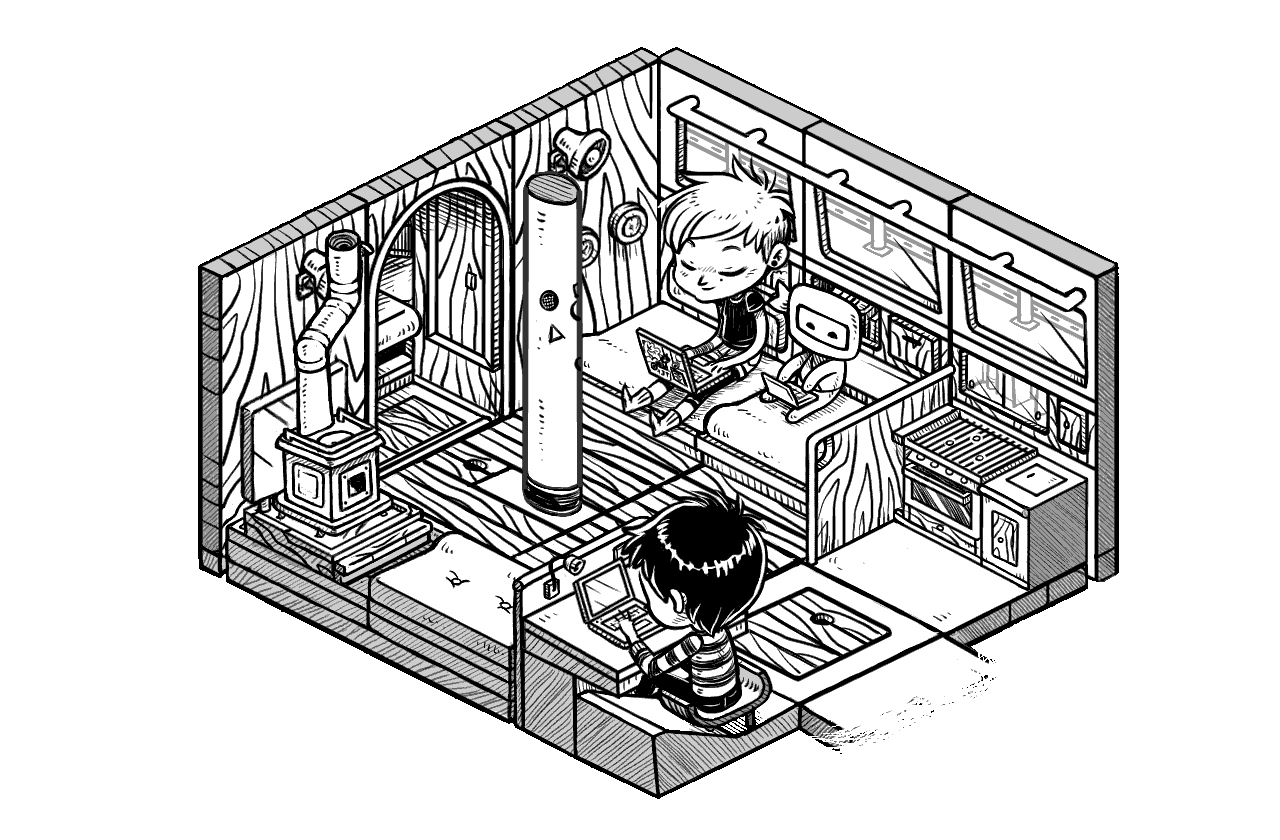
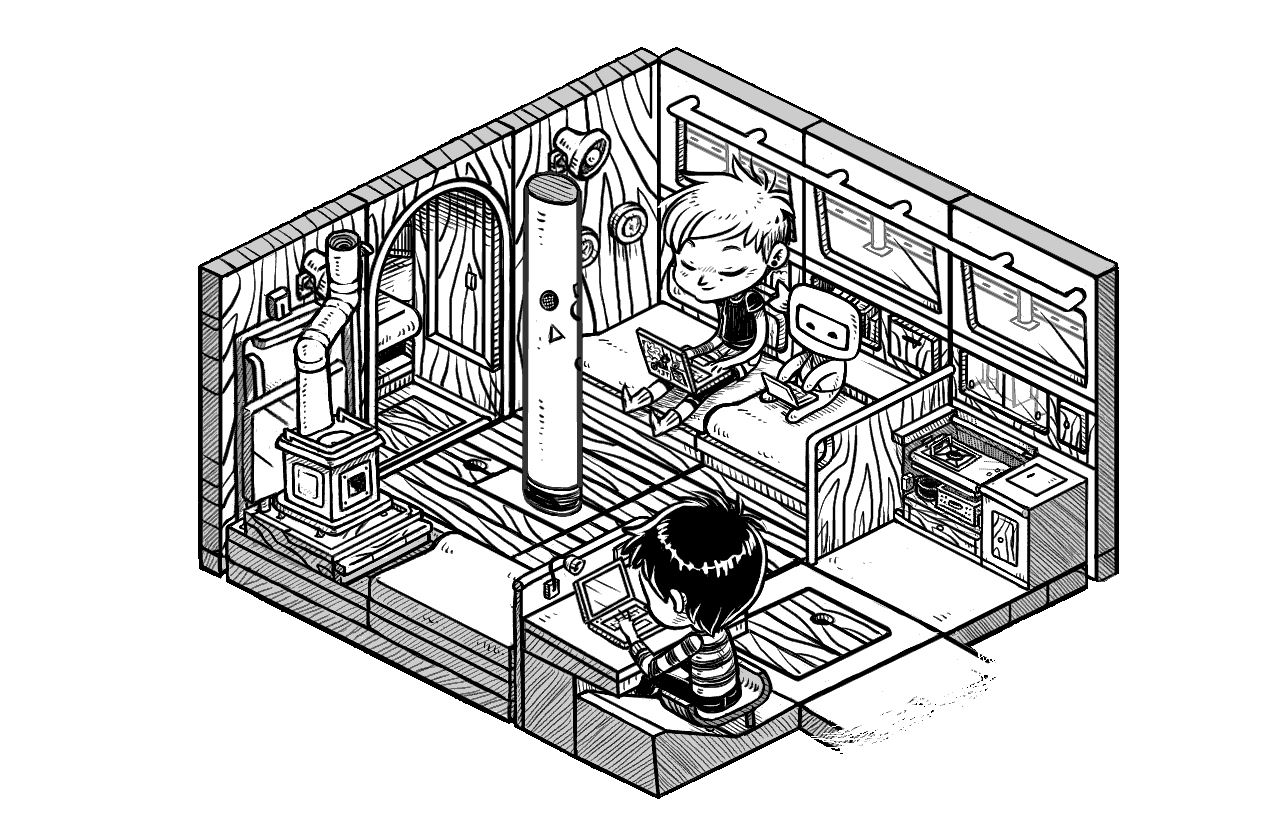
*

diff --git a/site/index.html b/site/index.html
@@ -105,5 +105,5 @@
 
 <h1>index</h1><ul class='col2 capital'><li><a href='2018.html'>2018</a></li><li><a href='2019.html'>2019</a></li><li><a href='2020.html'>2020</a></li><li><a href='2021.html'>2021</a></li><li><a href='2022.html'>2022</a></li><li><a href='2023.html'>2023</a></li><li><a href='6502_assembly.html'>6502 assembly</a></li><li><a href='a_home_for_pino.html'>a home for pino</a></li><li><a href='about_us.html'>about us</a></li><li><a href='abyc_wire_color_codes.html'>abyc wire color codes</a></li><li><a href='ac_electrical_refit.html'>ac electrical refit</a></li><li><a href='adelie.html'>adelie</a></li><li><a href='ais.html'>ais</a></li><li><a href='ais_installation.html'>ais installation</a></li><li><a href='alcohol_stove.html'>alcohol stove</a></li><li><a href='an_island_to_oneself.html'>an island to oneself</a></li><li><a href='anchoring.html'>anchoring</a></li><li><a href='anchoring_setup.html'>anchoring setup</a></li><li><a href='ballet_bay.html'>ballet bay</a></li><li><a href='barometer.html'>barometer</a></li><li><a href='batteries.html'>batteries</a></li><li><a href='beaufort_scale.html'>beaufort scale</a></li><li><a href='bed.html'>bed</a></li><li><a href='bikes.html'>bikes</a></li><li><a href='bikes_on_a_boat.html'>bikes on a boat</a></li><li><a href='board_games.html'>board games</a></li><li><a href='boat_projects.html'>boat projects</a></li><li><a href='boom_tent.html'>boom tent</a></li><li><a href='burgee.html'>burgee</a></li><li><a href='burgee_project.html'>burgee project</a></li><li><a href='busy_doing_nothing.html'>busy doing nothing</a></li><li><a href='buying_a_sailboat.html'>buying a sailboat</a></li><li><a href='calling_for_help.html'>calling for help</a></li><li><a href='captain_what_is_this.html'>captain what is this</a></li><li><a href='carbonation.html'>carbonation</a></li><li><a href='cast_iron_cookware.html'>cast iron cookware</a></li><li><a href='cathedral_grove.html'>cathedral grove</a></li><li><a href='charging_electronics.html'>charging electronics</a></li><li><a href='choosing_upholstery_fabric.html'>choosing upholstery fabric</a></li><li><a href='choosing_upholstery_foam.html'>choosing upholstery foam</a></li><li><a href='cleaning_products.html'>cleaning products</a></li><li><a href='coffee.html'>coffee</a></li><li><a href='communication.html'>communication</a></li><li><a href='computing_and_sustainability.html'>computing and sustainability</a></li><li><a href='contribute.html'>contribute</a></li><li><a href='cook_islands.html'>cook islands</a></li><li><a href='cooking.html'>cooking</a></li><li><a href='cost_of_simplicity.html'>cost of simplicity</a></li><li><a href='costs.html'>costs</a></li><li><a href='curtains.html'>curtains</a></li><li><a href='data_storage.html'>data storage</a></li><li><a href='dc_electrical_refit.html'>dc electrical refit</a></li><li><a href='decorations.html'>decorations</a></li><li><a href='diet.html'>diet</a></li><li><a href='distractions.html'>distractions</a></li><li><a href='ditch_bag.html'>ditch bag</a></li><li><a href='diy_carbonation_system.html'>diy carbonation system</a></li><li><a href='documenting.html'>documenting</a></li><li><a href='doldrumming.html'>doldrumming</a></li><li><a href='donsol.html'>donsol</a></li><li><a href='dotgrid.html'>dotgrid</a></li><li><a href='drownspire.html'>drownspire</a></li><li><a href='dry_toilet.html'>dry toilet</a></li><li><a href='dry_toilet_installation.html'>dry toilet installation</a></li><li><a href='effect_of_combining_dissimilar_metals.html'>effect of combining dissimilar metals</a></li><li><a href='electrical_refit.html'>electrical refit</a></li><li><a href='energy.html'>energy</a></li><li><a href='engine_care.html'>engine care</a></li><li><a href='engine_rebuild.html'>engine rebuild</a></li><li><a href='fiji.html'>fiji</a></li><li><a href='first_aid_kit.html'>first aid kit</a></li><li><a href='food_storage.html'>food storage</a></li><li><a href='forecast.html'>forecast</a></li><li><a href='formalities.html'>formalities</a></li><li><a href='french_polynesia.html'>french polynesia</a></li><li><a href='fuel_sensor.html'>fuel sensor</a></li><li><a href='gabriola.html'>gabriola</a></li><li><a href='galiano.html'>galiano</a></li><li><a href='galley.html'>galley</a></li><li><a href='galley_plumbing.html'>galley plumbing</a></li><li><a href='galley_refit.html'>galley refit</a></li><li><a href='galley_tools.html'>galley tools</a></li><li><a href='gimballed_stove.html'>gimballed stove</a></li><li><a href='goji_no_chaimu.html'>goji no chaimu</a></li><li><a href='grace_harbour.html'>grace harbour</a></li><li><a href='gravity_water_filter.html'>gravity water filter</a></li><li><a href='grib_files.html'>grib files</a></li><li><a href='grimgrains.html'>grimgrains</a></li><li><a href='grinder.html'>grinder</a></li><li><a href='ground_tackle.html'>ground tackle</a></li><li><a href='growing_food.html'>growing food</a></li><li><a href='halloween_pumpkins.html'>halloween pumpkins</a></li><li><a href='hardware.html'>hardware</a></li><li><a href='hathayim_marine_park.html'>hathayim marine park</a></li><li><a href='hauling_out.html'>hauling out</a></li><li><a href='headsail.html'>headsail</a></li><li><a href='heating.html'>heating</a></li><li><a href='hello_fujisan.html'>hello fujisan</a></li><li><a href='heriot_bay.html'>heriot bay</a></li><li><a href='hexadecimal_table.html'>hexadecimal table</a></li><li><a href='hiversaires.html'>hiversaires</a></li><li><a href='home.html'>home</a></li><li><a href='iggy.html'>iggy</a></li><li><a href='index.html'>index</a></li><li><a href='induction_cooking.html'>induction cooking</a></li><li><a href='installing_insulation.html'>installing insulation</a></li><li><a href='insulation.html'>insulation</a></li><li><a href='insulation_cooking.html'>insulation cooking</a></li><li><a href='insurance.html'>insurance</a></li><li><a href='internet.html'>internet</a></li><li><a href='internet_in_paradise.html'>internet in paradise</a></li><li><a href='japan.html'>japan</a></li><li><a href='jib_cars.html'>jib cars</a></li><li><a href='knots.html'>knots</a></li><li><a href='lactofermentation.html'>lactofermentation</a></li><li><a href='ladysmith.html'>ladysmith</a></li><li><a href='laundry.html'>laundry</a></li><li><a href='lazy_jacks.html'>lazy jacks</a></li><li><a href='left.html'>left</a></li><li><a href='left_electron.html'>left electron</a></li><li><a href='leleuvia.html'>leleuvia</a></li><li><a href='library.html'>library</a></li><li><a href='license.html'>license</a></li><li><a href='lifelines.html'>lifelines</a></li><li><a href='little_ninj.html'>little ninj</a></li><li><a href='liveaboard.html'>liveaboard</a></li><li><a href='living_aboard_in_winter.html'>living aboard in winter</a></li><li><a href='log.html'>log</a></li><li><a href='lost_logbook.html'>lost logbook</a></li><li><a href='lpg.html'>lpg</a></li><li><a href='lpg_refit.html'>lpg refit</a></li><li><a href='mainsail.html'>mainsail</a></li><li><a href='maintenance_checklist.html'>maintenance checklist</a></li><li><a href='maintenance_cost.html'>maintenance cost</a></li><li><a href='making_saloon_cushions.html'>making saloon cushions</a></li><li><a href='making_seamed_box_cushions.html'>making seamed box cushions</a></li><li><a href='makogai.html'>makogai</a></li><li><a href='maple_bay.html'>maple bay</a></li><li><a href='marine_wire_termination.html'>marine wire termination</a></li><li><a href='markl.html'>markl</a></li><li><a href='marshall_islands.html'>marshall islands</a></li><li><a href='medical.html'>medical</a></li><li><a href='melanie_cove.html'>melanie cove</a></li><li><a href='meta.nav.html'>meta.nav</a></li><li><a href='metal_halyard_swaging.html'>metal halyard swaging</a></li><li><a href='mexico.html'>mexico</a></li><li><a href='mini_dodger.html'>mini dodger</a></li><li><a href='mission.html'>mission</a></li><li><a href='moisture_prevention_underliner.html'>moisture prevention underliner</a></li><li><a href='money.html'>money</a></li><li><a href='moorage.html'>moorage</a></li><li><a href='nasu.html'>nasu</a></li><li><a href='nasu_guide.html'>nasu guide</a></li><li><a href='navigation.html'>navigation</a></li><li><a href='new_zealand.html'>new zealand</a></li><li><a href='night_sailing.html'>night sailing</a></li><li><a href='niju.html'>niju</a></li><li><a href='niue.html'>niue</a></li><li><a href='noodle.html'>noodle</a></li><li><a href='north_pacific_logbook.html'>north pacific logbook</a></li><li><a href='north_pacific_ocean.html'>north pacific ocean</a></li><li><a href='nutrition.html'>nutrition</a></li><li><a href='oars.html'>oars</a></li><li><a href='octopus_islands.html'>octopus islands</a></li><li><a href='off_the_grid.html'>off the grid</a></li><li><a href='offshore.html'>offshore</a></li><li><a href='offshore_checklist.html'>offshore checklist</a></li><li><a href='ogasawara_cruising_guide.html'>ogasawara cruising guide</a></li><li><a href='open_pantry.html'>open pantry</a></li><li><a href='oquonie.html'>oquonie</a></li><li><a href='orca.html'>orca</a></li><li><a href='paradise.html'>paradise</a></li><li><a href='philosophy.html'>philosophy</a></li><li><a href='pino.html'>pino</a></li><li><a href='plantbased_diet_in_japan.html'>plantbased diet in japan</a></li><li><a href='power.html'>power</a></li><li><a href='press.html'>press</a></li><li><a href='pressure_cooker.html'>pressure cooker</a></li><li><a href='princess_louisa_inlet.html'>princess louisa inlet</a></li><li><a href='privacy.html'>privacy</a></li><li><a href='productivity.html'>productivity</a></li><li><a href='projects_and_pain.html'>projects and pain</a></li><li><a href='propeller_maintenance.html'>propeller maintenance</a></li><li><a href='provisioning.html'>provisioning</a></li><li><a href='provisioning_in_japan.html'>provisioning in japan</a></li><li><a href='pull_request.html'>pull request</a></li><li><a href='rabbits.html'>rabbits</a></li><li><a href='radio.html'>radio</a></li><li><a href='rain.html'>rain</a></li><li><a href='rainy_with_a_chance_of_mosquitoes.html'>rainy with a chance of mosquitoes</a></li><li><a href='reefing.html'>reefing</a></li><li><a href='refrigeration.html'>refrigeration</a></li><li><a href='regulator.html'>regulator</a></li><li><a href='repair.html'>repair</a></li><li><a href='resources.html'>resources</a></li><li><a href='ronin.html'>ronin</a></li><li><a href='roscoe_bay.html'>roscoe bay</a></li><li><a href='safety_gear.html'>safety gear</a></li><li><a href='sailing.html'>sailing</a></li><li><a href='sailing_in_japan.html'>sailing in japan</a></li><li><a href='saloon_hatch.html'>saloon hatch</a></li><li><a href='satellite_phone.html'>satellite phone</a></li><li><a href='saturna.html'>saturna</a></li><li><a href='saving_fuel.html'>saving fuel</a></li><li><a href='schedule.html'>schedule</a></li><li><a href='seasickness.html'>seasickness</a></li><li><a href='setup.html'>setup</a></li><li><a href='sewing.html'>sewing</a></li><li><a href='shimoda.html'>shimoda</a></li><li><a href='shore_power_cord_repair.html'>shore power cord repair</a></li><li><a href='shower.html'>shower</a></li><li><a href='sky_reading.html'>sky reading</a></li><li><a href='small_space.html'>small space</a></li><li><a href='smuggler_cove.html'>smuggler cove</a></li><li><a href='snubber.html'>snubber</a></li><li><a href='software.html'>software</a></li><li><a href='solar.html'>solar</a></li><li><a href='solar_box_cooking.html'>solar box cooking</a></li><li><a href='solar_cooking.html'>solar cooking</a></li><li><a href='solar_cooking_experiment.html'>solar cooking experiment</a></li><li><a href='solar_evacuated_tube_cooking.html'>solar evacuated tube cooking</a></li><li><a href='solar_tips.html'>solar tips</a></li><li><a href='sprouting.html'>sprouting</a></li><li><a href='squalls.html'>squalls</a></li><li><a href='standing_rigging_replacement.html'>standing rigging replacement</a></li><li><a href='store.html'>store</a></li><li><a href='story.html'>story</a></li><li><a href='sturt_bay.html'>sturt bay</a></li><li><a href='sun_driers.html'>sun driers</a></li><li><a href='support.html'>support</a></li><li><a href='teapot.html'>teapot</a></li><li><a href='telegraph_cove.html'>telegraph cove</a></li><li><a href='tenedos_bay.html'>tenedos bay</a></li><li><a href='the_promise_of_pancakes.html'>the promise of pancakes</a></li><li><a href='the_rock_of_polynesia.html'>the rock of polynesia</a></li><li><a href='thousand_rooms.html'>thousand rooms</a></li><li><a href='thruhulls.html'>thruhulls</a></li><li><a href='tonga.html'>tonga</a></li><li><a href='toolbox.html'>toolbox</a></li><li><a href='tools_ecosystem.html'>tools ecosystem</a></li><li><a href='turnip.html'>turnip</a></li><li><a href='typhoons_and_mold.html'>typhoons and mold</a></li><li><a href='upholstery.html'>upholstery</a></li><li><a href='us_west_coast.html'>us west coast</a></li><li><a href='uxn.html'>uxn</a></li><li><a href='uxn_design.html'>uxn design</a></li><li><a href='uxn_guide.html'>uxn guide</a></li><li><a href='verreciel.html'>verreciel</a></li><li><a href='victoria.html'>victoria</a></li><li><a href='videos.html'>videos</a></li><li><a href='washing_produce.html'>washing produce</a></li><li><a href='waste.html'>waste</a></li><li><a href='water.html'>water</a></li><li><a href='water_filtration.html'>water filtration</a></li><li><a href='water_storage.html'>water storage</a></li><li><a href='weather.html'>weather</a></li><li><a href='weathering_software_winter.html'>weathering software winter</a></li><li><a href='website.html'>website</a></li><li><a href='western_canada.html'>western canada</a></li><li><a href='wheel_to_tiller_conversion.html'>wheel to tiller conversion</a></li><li><a href='where.html'>where</a></li><li><a href='why_a_boat.html'>why a boat</a></li><li><a href='wiktopher.html'>wiktopher</a></li><li><a href='windlass_removal.html'>windlass removal</a></li><li><a href='window_replacement.html'>window replacement</a></li><li><a href='wood_upkeep.html'>wood upkeep</a></li><li><a href='woodstove.html'>woodstove</a></li><li><a href='woodstove_installation.html'>woodstove installation</a></li><li><a href='working_offgrid_efficiently.html'>working offgrid efficiently</a></li></ul>
 
-</main><footer><hr /><span style='float:right'>Edited on Sun Feb 18 12:48:37 2024
+</main><footer><hr /><span style='float:right'>Edited on Sun Feb 18 15:06:24 2024
  <a href='https://github.com/hundredrabbits/100r.co/edit/main/src/inc/index.htm'>[edit]</a><br/></span><b>Hundredrabbits</b> © 2024 — <a href='https://github.com/hundredrabbits/100r.co/blob/main/LICENSE.by-nc-sa-4.0.md' target='_blank'>BY-NC-SA 4.0</a><a href='https://merveilles.town/@neauoire' rel='me' class='hidden'></a><a href='https://merveilles.town/@rek' rel='me' class='hidden'></a></footer></body></html>

diff --git a/site/lpg_refit.html b/site/lpg_refit.html
@@ -163,7 +163,7 @@
 <li>12-volt solenoid</li>
 </ul>
 
-<p>The only component we kept was the sniffer, the electronic control panel that turns the solenoid on and off and that checks for leaks in the system (that turned out to be a mistake, it stopped working in the summer of 2023).</p>
+<p>The only component we kept was the sniffer, the electronic control panel that turns the solenoid on and off and that checks for leaks in the system (that turned out to be a mistake because the control panel stopped working in the summer of 2023).</p>
 
 <h3>Order of Components of Standard Marine Set-Up</h3>
 
@@ -175,6 +175,8 @@
 	<li>[3] High-pressure 12V solenoid<br><i>A high-pressure solenoid is ideal because it shuts off the gas upstream of the regulator and the rest of the system, they're better quality than low pressure solenoids.</i></li>
 	<li>[4] Two stage regulator<br><i>Reduces the pressure from 250 psi(tank side, varies widely with temperature) to 11″WC in the gas line to the appliance.</i></li>
 </ul>
+
+<p>The two wires coming out of the solenoid that connect back to the control panel(or circuit breaker depending on the model) are interchangeable. Fusing the positives is recommended, that is unless the circuit breaker is the correct amperage to protect the circuit. The lowest amperage offered on modern North-American pre-built DC circuit breaker panels is 5 amps, and the smallest required fuse sized for our solenoid is 1 amp(positive power wire to circuit breaker). Our model has another inline 2 amp fuse for the wire between the display unit and the solenoid(yellow switching ground).</p>
 
 <h3>Thread Sealant</h3>
 
@@ -238,5 +240,5 @@
 
 <p>We sold our 3-burner LPG stove and scaled down to a single burner, see our <a href='gimballed_stove.html' class='local'>gimballed stove</a>. We also installed a new control panel and sniffer.</p>
 
-</main><footer><hr /><span style='float:right'>Edited on Fri Feb 16 14:29:04 2024
+</main><footer><hr /><span style='float:right'>Edited on Sun Feb 18 15:05:38 2024
  <a href='https://github.com/hundredrabbits/100r.co/edit/main/src/inc/lpg_refit.htm'>[edit]</a><br/></span><b>Hundredrabbits</b> © 2024 — <a href='https://github.com/hundredrabbits/100r.co/blob/main/LICENSE.by-nc-sa-4.0.md' target='_blank'>BY-NC-SA 4.0</a><a href='https://merveilles.town/@neauoire' rel='me' class='hidden'></a><a href='https://merveilles.town/@rek' rel='me' class='hidden'></a></footer></body></html>

diff --git a/src/inc/lpg_refit.htm b/src/inc/lpg_refit.htm
@@ -58,7 +58,7 @@
 <li>12-volt solenoid</li>
 </ul>
 
-<p>The only component we kept was the sniffer, the electronic control panel that turns the solenoid on and off and that checks for leaks in the system (that turned out to be a mistake, it stopped working in the summer of 2023).</p>
+<p>The only component we kept was the sniffer, the electronic control panel that turns the solenoid on and off and that checks for leaks in the system (that turned out to be a mistake because the control panel stopped working in the summer of 2023).</p>
 
 <h3>Order of Components of Standard Marine Set-Up</h3>
 
@@ -70,6 +70,8 @@
 	<li>[3] High-pressure 12V solenoid<br><i>A high-pressure solenoid is ideal because it shuts off the gas upstream of the regulator and the rest of the system, they're better quality than low pressure solenoids.</i></li>
 	<li>[4] Two stage regulator<br><i>Reduces the pressure from 250 psi(tank side, varies widely with temperature) to 11″WC in the gas line to the appliance.</i></li>
 </ul>
+
+<p>The two wires coming out of the solenoid that connect back to the control panel(or circuit breaker depending on the model) are interchangeable. Fusing the positives is recommended, that is unless the circuit breaker is the correct amperage to protect the circuit. The lowest amperage offered on modern North-American pre-built DC circuit breaker panels is 5 amps, and the smallest required fuse sized for our solenoid is 1 amp(positive power wire to circuit breaker). Our model has another inline 2 amp fuse for the wire between the display unit and the solenoid(yellow switching ground).</p>
 
 <h3>Thread Sealant</h3>
 

diff --git a/site/log.html b/site/log.html
@@ -127,6 +127,8 @@
 
 <p>-collating-</p>
 
+<p>The splash image for our website was updated to include our new galley design!</p>
+
 <p>Xsodect made <a href="https://layer8.space/@vacuumbeef/111908425456442451" target="_blank">Tetris</a>(Mastodon) in <a href='orca.html' class='local'>Orca</a>.</p>
 
 <h2 id='jan2024'>January 2024</h2>
@@ -156,5 +158,5 @@
 <p>This month we are reading <b>The Haunting of Hill House</b> by Shirley Jackson.</p>
 
 
-</main><footer><hr /><span style='float:right'>Edited on Sun Feb 18 10:22:08 2024
+</main><footer><hr /><span style='float:right'>Edited on Sun Feb 18 15:06:16 2024
  <a href='https://github.com/hundredrabbits/100r.co/edit/main/src/inc/log.htm'>[edit]</a><br/></span><b>Hundredrabbits</b> © 2024 — <a href='https://github.com/hundredrabbits/100r.co/blob/main/LICENSE.by-nc-sa-4.0.md' target='_blank'>BY-NC-SA 4.0</a><a href='https://merveilles.town/@neauoire' rel='me' class='hidden'></a><a href='https://merveilles.town/@rek' rel='me' class='hidden'></a></footer></body></html>

diff --git a/site/home.html b/site/home.html
@@ -132,6 +132,8 @@
 
 <p>-collating-</p>
 
+<p>The splash image for our website was updated to include our new galley design!</p>
+
 <p>Xsodect made <a href="https://layer8.space/@vacuumbeef/111908425456442451" target="_blank">Tetris</a>(Mastodon) in <a href='orca.html' class='local'>Orca</a>.</p>
 
 <h2 id='jan2024'>January 2024</h2>

diff --git a/src/inc/log.htm b/src/inc/log.htm
@@ -22,6 +22,8 @@
 
 <p>-collating-</p>
 
+<p>The splash image for our website was updated to include our new galley design!</p>
+
 <p>Xsodect made <a href="https://layer8.space/@vacuumbeef/111908425456442451" target="_blank">Tetris</a>(Mastodon) in {Orca}.</p>
 
 <h2 id='jan2024'>January 2024</h2>
